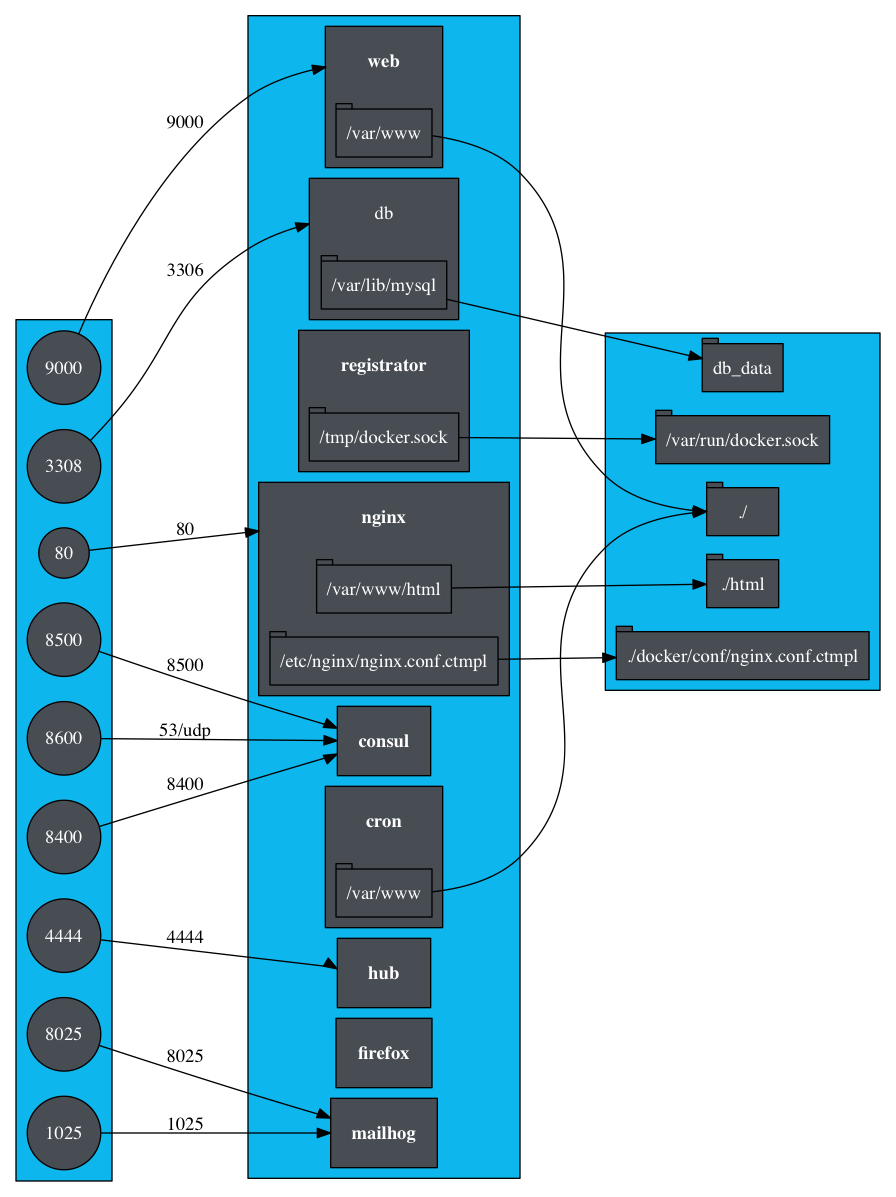
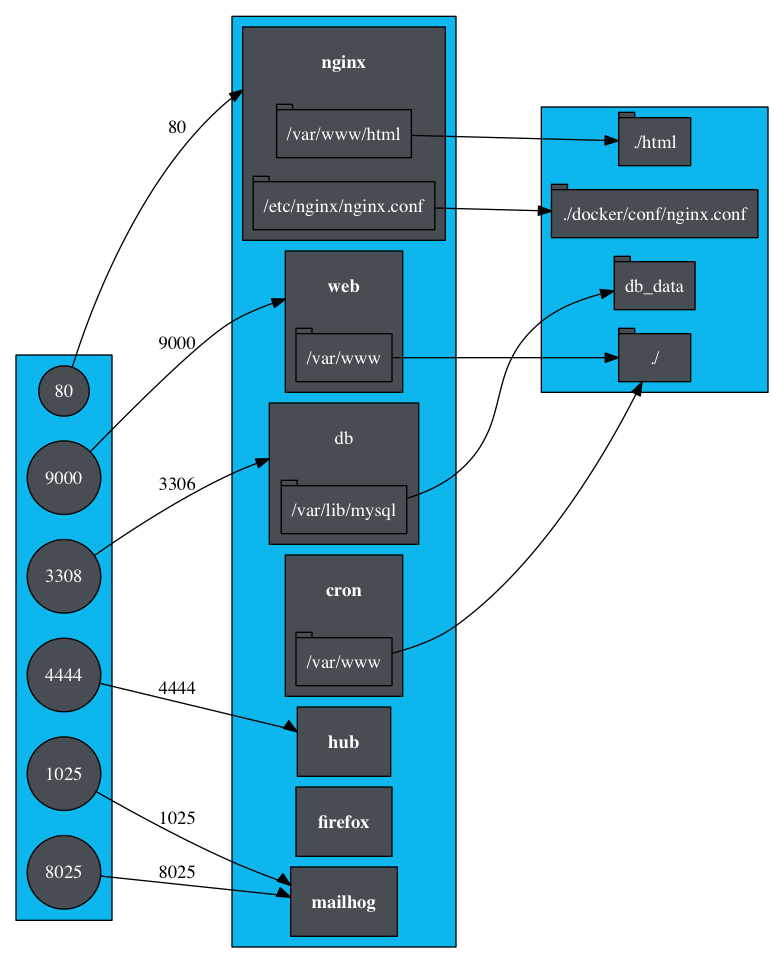
feat(docs): Improvements to documentation

diff --git a/template/docker/README.md b/template/docker/README.md
@@ -1,7 +1,7 @@
 Docker template for Composer + Drupal
 =====================================
 
-Provides an optimized, fast, and lightweight local / CI docker environment to
+Provides an barebones, fast, and lightweight local / CI docker environment to
 work with Drupal.
 
 ## Install + Configuration
@@ -54,7 +54,8 @@ echo "export http_proxy=$HTTP_PROXY" >> /home/docker/.ashrc
 echo "export https_proxy=$HTTP_PROXY" >> /home/docker/.ashrc
 ```
 
-Switch between multiple Docker Machines with the following command:
+Switch between multiple `Docker Machines / Drupal environments` with the
+following command:
 
 ```sh
 eval $(docker-machine env site-name)
@@ -72,9 +73,9 @@ docker-machine-nfs site-name
 #### Build + Start Docker Machine
 
 All of the Docker containers rely on a composer build. Since this is a first
-run this command will be executed first. The next command is to build the base
-container for this project from which all dependent containers will derive.
-Finally the whole infrastructure is instantiated with `docker-compose`.
+run the `composer update` command will be executed first. The next command is
+to build the base container for this project from which all dependent
+containers will derive and then to instantiate the infrastructure.
 
 ```sh
 composer update
@@ -87,10 +88,11 @@ continuously rebuilt with CI.
 
 ## Architecture
 
-Now that all of the infrastructure and pre-requisites have now been installed +
-built out we can take a moment to go over the architecture. The tree represented
+Now that all of the infrastructure and pre-requisites have been installed +
+built out we can take a moment to go over the file system. The tree represented
 below gives a overview of the generated scaffold. All logic is contained within
-a single docker folder + 5 controller files.
+a single docker folder + 5 controller files. Please note the controller files
+will never be regenerated to prevent overrides from being deleted.
 
 ```
 .
@@ -114,7 +116,7 @@ a single docker folder + 5 controller files.
 │   │   ├── phpcs.xml
 │   │   └── phpunit.xml
 │   ├── images
-│   │   │── 1.0-alpha1
+│   │   │── 1.0-alpha1 (example of tagged release for Docker Hub)
 │   │   │   ├── scripts
 │   │   │   │   └── ScriptHandler.php
 │   │   │   └── Dockerfile
@@ -137,10 +139,10 @@ a single docker folder + 5 controller files.
 │   ├── config.yml
 │   ├── deploy.php
 │   └── Dockerfile
-├── .gitlab-ci.yml        (controller file for CI)
-├── .travis.yml           (controller file for CI)
+├── .gitlab-ci.yml        (controller file for GitLab CI)
+├── .travis.yml           (controller file for Travis CI)
 ├── docker-compose.yml    (controller file for Docker)
-├── docker-compose-ci.yml (controller file for Docker)
+├── docker-compose-ci.yml (controller file for Docker on CI builds)
 └── Makefile              (controller file for Docker)
 ```
 
@@ -209,10 +211,11 @@ You can interact with Drupal and associated tools via the `docker/bin` commands.
 ```
 
 > Note: The `docker/bin` folder provides idempotent control over a range of
-docker services as they are wrappers to `docker run`.
+docker services as they are merely wrappers to `docker run`. This `bin` folder
+will be useful when configuring PHPStorm to support Behat, Composer, PHP, etc.
 
 The following are some example(s) of commonly used commands to help illustrate
-how they can be leveraged:
+how the `bin` folder can be leveraged:
 
 Call any `drush` command:
 
@@ -254,11 +257,12 @@ make list
 
 ## Docker Images
 
-Every image (except for MySQL) is based on the lightweight [Alpine][alpine]
-Linux distribution. Additionally most of the images listed below are extended
-off of each other to take advantage of docker layering best practices. Due to
-this you will be downloading far less then the listed amounts. Finally every
-image in some form or another is directly derived from Docker official images.
+Every image (except for MySQL until P.R. is merged) is based on the lightweight
+[Alpine][alpine] Linux distribution. Additionally most of the images listed
+below are extended off of each other to take advantage of docker layering best
+practices. Due to this you will be downloading far less then the listed amounts.
+Finally every image in some form or another is directly derived from Docker
+official images.
 
 > Note: There are additional tricks such as leveraging a
 [docker registry proxy][docker-registry] cache so on rebuilds, you won't need
@@ -269,8 +273,7 @@ to download the images when rebuilding etc.
 | Repository                      | Tag          | Size      |
 | ------------------------------- | ------------ | --------- |
 | alpine                          | latest       | 3.98  MB  |
-| gliderlabs/registrator          | latest       | 23.76 MB  |
-| consul                          | latest       | 38.75 MB  |
+| nginx:alpine                    | latest       | 54.27 MB  |
 | mailhog/mailhog                 | latest       | 46.56 MB  |
 | mysql                           | 5.6          | 327.5 MB  |
 
@@ -280,20 +283,6 @@ to download the images when rebuilding etc.
 its small size, resource isolation, and memory efficiency. Additionally
 [Alpine][alpine] provides a great packager to help with docker layering namely
 [apk][apk].
-
-#### Registrator
-
-[Registrator][registrator] automatically registers and deregisters services for
-any Docker container by inspecting containers as they come online.
-[Registrator][registrator] is configured to automatically populate
-[Consul][consul].
-
-#### Consul
-
-[Consul][consul] makes it simple for services to register themselves and to
-discover other  services via a DNS or HTTP interface. [Consul][consul] provides
-a flexible key/value store enables storing dynamic configuration, feature
-flagging, coordination, leader election and more.
 
 #### Mailhog
 
@@ -310,17 +299,17 @@ create an [Alpine][alpine] variant much like the PostgreSQL image.
 
 | Repository                      | Tag          | Size      |
 | ------------------------------- | ------------ | --------- |
-| drupalwxt/nginx-consul-template | latest       | 74.82 MB  |
+| drupalwxt/drupal                | latest       | 177.2 MB  |
 | drupalwxt/selenium              | hub          | 155.4 MB  |
 | drupalwxt/selenium              | node-firefox | 326.5 MB  |
 
-#### Nginx + Consul Template
+- [drupalwxt/drupal][docker-drupal]
 
-Creates a configurable load balancer through [Consul][consul]'s key / value
-store which dynamically populates `Nginx` with the different Docker
-environments. Can be interacted with via simple curl requests.
+#### Overridden (`_/drupal`)
 
-- [drupalwxt/nginx-consul-template][nginx-consul-template]
+> Note: The Dockerfile in `drupalwxt/drupal` extends from the
+`drupal:fpm-alpine` container and simply provides missing support. Eventually
+this image should be ported to the Docker official library for Drupal.
 
 #### Selenium (Hub + Node Firefox)
 
@@ -330,30 +319,30 @@ configured to run firefox.
 
 - [drupalwxt/selenium][selenium]
 
-### Drupal Images (Local)
+#### Namespace change for `Helper Images`
+
+Ideally I would like to change these images to be namespaced under the
+`drupal-composer` organization.
 
 | Repository                      | Tag          | Size      |
 | ------------------------------- | ------------ | --------- |
-| drupalwxt/drupal                | latest       | 190.2 MB  |
-| org/site-name                   | latest       | 523.7 MB  |
-| sitename_cron                   | latest       | 523.7 MB  |
-| sitename_web                    | latest       | 650.6 MB  |
+| drupal-composer/drupal          | latest       | 177.2 MB  |
+| drupal-composer/selenium        | hub          | 155.4 MB  |
+| drupal-composer/selenium        | node-firefox | 326.5 MB  |
 
-#### Overridden (`_/drupal`)
+### Scaffolded Drupal Images derived from `composer.json`
 
-Eventually this image should be ported to the Docker official library for
-Drupal. Currently the official Drupal image doesn't support the [Alpine][alpine]
-variant. As most other popular projects have an [Alpine][alpine] variant this
-should eventually be accepted. Right now this image directly extends off of
-the official `php:7.0-fpm-alpine` image one layer below Drupal official.
-
-- [drupalwxt/drupal][docker-drupal]
+| Repository                      | Tag          | Size                        |
+| ------------------------------- | ------------ | --------------------------- |
+| org/repo                        | latest       | depends on `composer.json`  |
+| sitename_cron                   | latest       | depends on `composer.json`  |
+| sitename_web                    | latest       | depends on `composer.json`  |
 
 #### Base (`org/repo`)
 
-This image when built or pulled from Docker Hub (if desired) is a direct
-extension of the official Drupal image. It simply calls the base layer and runs
-the following composer command (amongst others) in the container:
+This image when built locally or possibly pulled from Docker Hub (if setup) is
+a direct extension of the official Drupal image. It simply calls the base layer
+and runs the following composer command (amongst others) in the container:
 
 ```
 composer global require "hirak/prestissimo:^0.3" && \
@@ -362,7 +351,7 @@ composer install --prefer-dist \
                  --no-dev
 ```
 
-> Note: This layer doesn't include the dev dependencies from composer.json
+> Note: This layer doesn't include the dev dependencies from `composer.json`
 
 - [Dockerfile][drupal-site-layer]
 
@@ -427,8 +416,8 @@ Below is a `graphviz` dot representation of our `docker-compose.yml` file.
 
 ## Acknowledgements
 
-Where possible we try to follow the best practices laid out by the top-tier
-Drupal projects namely:
+Where possible we try to integrate with the best practices laid out by the
+top-tier Drupal projects namely:
 
 * [Lightning][lightning] distribution created by [Acquia][acquia]
 * [Open Social][open_social] distribution created by [Goal Gorilla][goalgorilla]

diff --git a/README.md b/README.md
@@ -2,48 +2,64 @@
 
 [![Build Status][ci-badge]][ci]
 
-Composer plugin for automatically downloading and instantiating a Docker based
-Drupal infrastructure.
+Composer plugin for automatically downloading pre-configured Docker + Docker
+Compose scaffold files (like `Dockerfile`, `docker-compose.yml`, ...) when
+using composer with a Drupal specific project.
 
-Detailed documentation explaining this workflow can be found in the README.md
-file located in the `template/docker` directory or by clicking the link below:
+Currently tested against:
+
+* [`drupal-composer/drupal-project`][drupal-scaffold]
+
+## Policy
+
+* The `composer.json` file is authoritative (config is generated against)
+* All docker images come from `Docker Hub` official images
+* Workflow is aimed at addressing development / CI based infrastructure
+* Full support / integration with PHPStorm
+* Focus on simplicity
+* Generated configuration is fully testable / working on Travis CI + GitLab CI
+* Support for proxy / corporate firewalls
+
+> Note: This isn't a strict policy but all images are built against Alpine
+official images due to their small size, memory efficiency, and simplicity.
+
+## Architecture
+
+Detailed documentation explaining the architecture can be found in the
+README.md file located in the `template/docker` directory (additionally part of
+scaffolded files) or by clicking the link below:
 
 - [template/docker/README.md][docker-readme]
 
-> Note: Currently there are some hard constraints in order for the generated
-docker scaffold files to work with a `composer.json` file.
+## Constraints
 
 It is required that the vendor directory be placed in its default location
-at the project root and that the webroot directory name is in the composer file.
-`drupal-scaffold-docker` will generate a `docker` folder along with several
-controller files (see detailed documentation) in your project root. Currently
-the package will only install whenever the `drupal/core` package is installed
-and / or updated.
+at the project root and that the webroot directory name is given in the
+composer file. `drupal-scaffold-docker` will generate a `docker` folder along
+with several controller files (see `Architecture` above) in your project root.
 
 ## Usage
 
 ### Existing project
 
-Run the following command in your composer project before installing or
-updating `drupal/core`.
+Run the following command in your composer project:
 
 ```
-composer require drupalwxt/drupal-scaffold-docker:dev-master PROJECT_NAME
-cd PROJECT_NAME
+composer require drupalwxt/drupal-scaffold-docker:8.x-dev PROJECT_NAME
 ```
 
 Once `drupal-scaffold-docker` is required by your project, it will
-automatically update your scaffold files whenever `composer update` changes the
-version of `drupal/core` installed.
+automatically update your scaffold files whenever you issue the
+`composer update` command.
 
-Note: Only the `docker` directory will always be recreated. The controller
+> Note: Only the `docker` directory will always be recreated. The controller
 files at project root won't override existing any files if they are already
-present in the root directory.
+present in the root directory. This is done to ensure any custom overrides
+won't be overridden. For more information see the `Architecture` section above.
 
 ### Custom command
 
-The plugin by default is only downloading the scaffold files when installing or
-updating `drupal/core`. If you want to call it manually, you have to add the
+If you want to download the scaffold files manually, you have to add the
 command callback to the `scripts` section of your root `composer.json` file:
 
 ```json
@@ -57,12 +73,10 @@ command callback to the `scripts` section of your root `composer.json` file:
 After that you can manually download the scaffold files according to your
 configuration by using `composer drupal-scaffold-docker`.
 
-It is assumed that the scaffold files will be committed to the repository, to
-ensure that the correct files are leveraged on a CI server. After running
-`composer install` for the first time commit the scaffold files to your
-repository.
-
+> Note: It is currently assumed that the scaffold files will be committed to
+the repository.
 
 [ci]:                   https://travis-ci.org/drupalwxt/drupal-scaffold-docker
-[ci-badge]:             https://travis-ci.org/drupalwxt/drupal-scaffold-docker.svg?branch=master
+[ci-badge]:             https://travis-ci.org/drupalwxt/drupal-scaffold-docker.svg?branch=8.x
 [docker-readme]:        template/docker/README.md
+[drupal-scaffold]:      https://github.com/drupal-composer/drupal-scaffold
